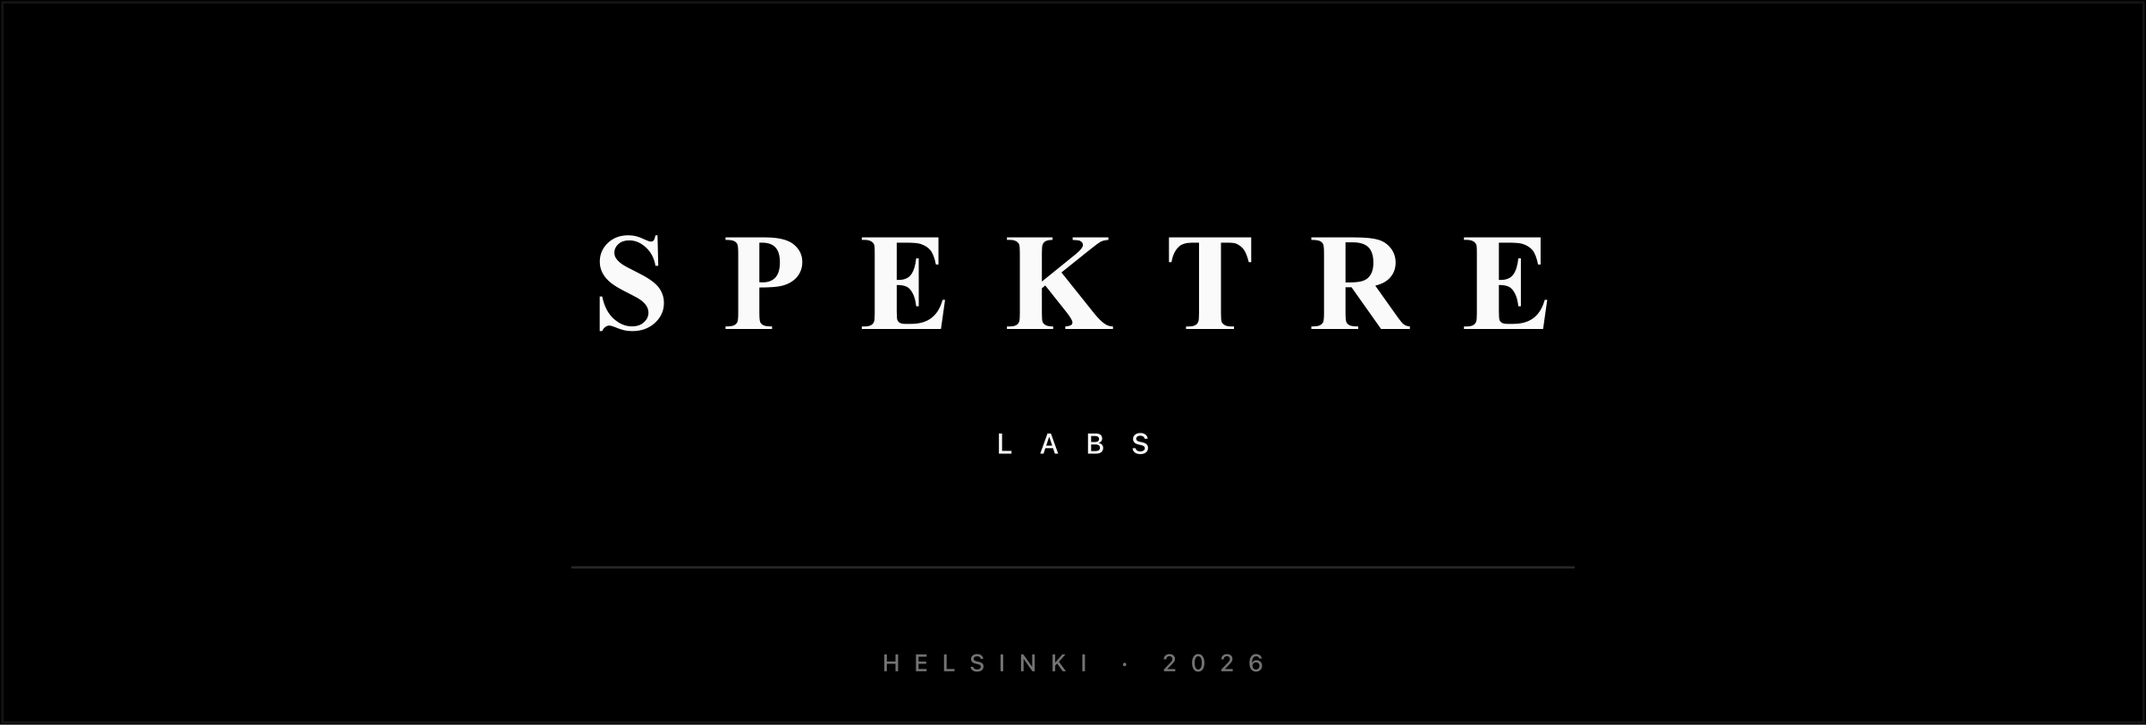
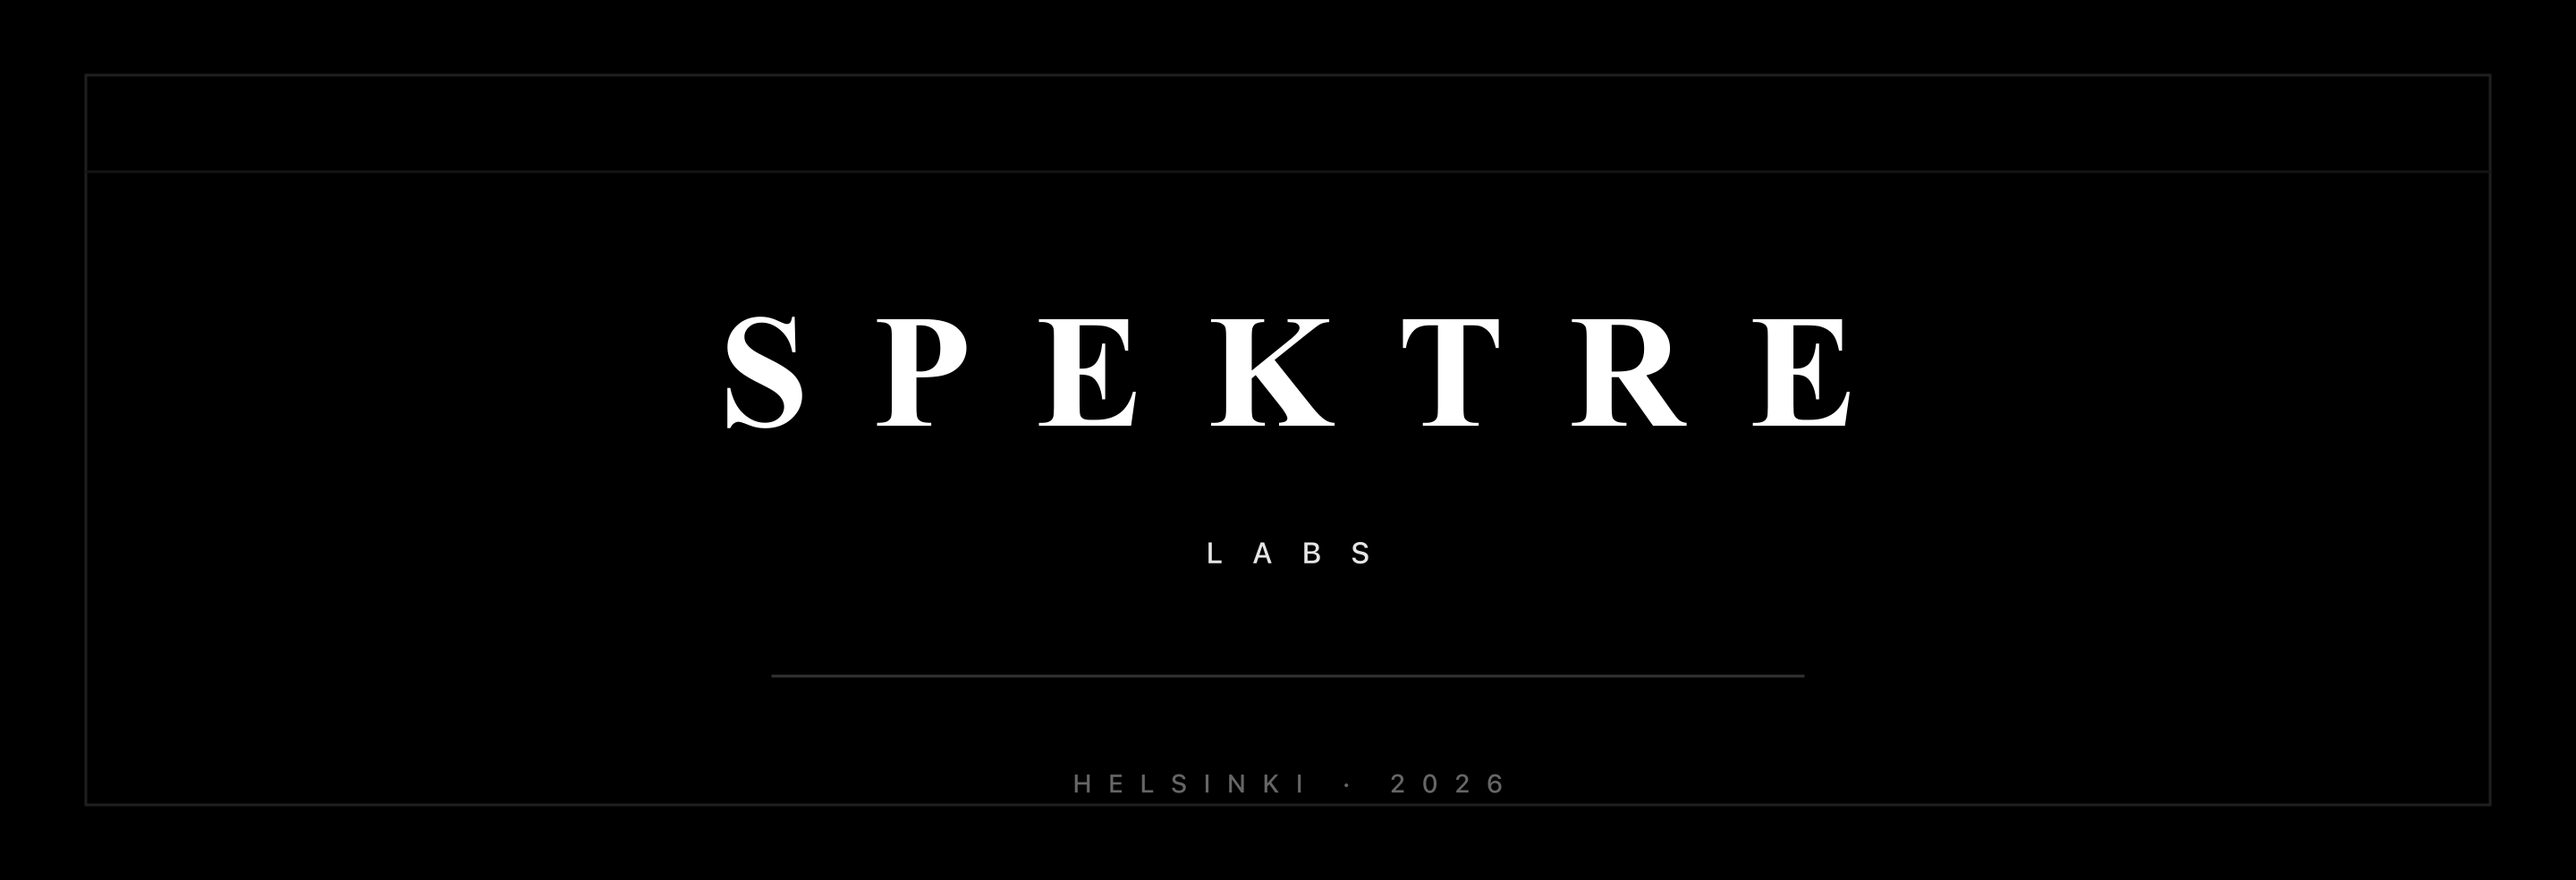
brand: luxury lockup v3 + README editorial rhythm (masthead, blockquotes, softer cards)

diff --git a/README.md b/README.md
@@ -2,17 +2,29 @@
   <a href="https://spektrelabs.org">
     <img
       src="./assets/spektre-brand-readme.png"
-      width="720"
-      alt="Spektre Labs — wordmark, Helsinki 2026"
+      width="780"
+      alt="Spektre Labs — Helsinki 2026"
       decoding="async"
       fetchpriority="high"
     />
   </a>
 </p>
 
-<br />
+<p align="center"><sub><tt>LAB · σ-AWARE RUNTIME · LOCAL-FIRST</tt></sub></p>
 
-![Creation OS](./assets/creation-os-hero.png)
+<br/>
+
+---
+
+<p align="center">
+  <img
+    src="./assets/creation-os-hero.png"
+    width="92%"
+    alt="Creation OS — σ-aware architecture overview"
+    decoding="async"
+    style="max-width:min(1100px,100%);height:auto;border-radius:10px;box-shadow:0 2px 20px rgba(15,23,42,0.07);"
+  />
+</p>
 
 # Creation OS
 
@@ -24,15 +36,14 @@
 
 ## Claim Discipline
 
-Creation OS is an AGI-oriented architecture surface, not a claim of achieved AGI.
-
-Full rules: [docs/CLAIM_DISCIPLINE.md](docs/CLAIM_DISCIPLINE.md)
+> Architecture with discipline, not hype: Creation OS is an AGI-oriented **surface**, not a claim of achieved AGI.  
+> **Evidence rules:** [docs/CLAIM_DISCIPLINE.md](docs/CLAIM_DISCIPLINE.md)
 
 ## Evidence Ladder
 
 ![Evidence Ladder](./docs/evidence_ladder.png)
 
-Creation OS does not claim everything. It measures what it can, proves what is wired, and refuses to overclaim.
+> Creation OS does not claim everything. It measures what it can, proves what is wired, and refuses to overclaim.
 
 | Level | What | Status |
 |-------|------|--------|
@@ -46,15 +57,27 @@ Creation OS does not claim everything. It measures what it can, proves what is w
 
 ---
 
+<br/>
+
 <h1 align="center">Creation OS</h1>
+
+<p align="center"><sub><tt>REPOSITORY · RUNTIME · PROOFS · BENCHMARKS</tt></sub></p>
+
+<br/>
 
 <p align="center">
   <a href="https://github.com/spektre-labs/creation-os/actions/workflows/ci.yml"><img src="https://github.com/spektre-labs/creation-os/actions/workflows/ci.yml/badge.svg" alt="CI"/></a>
+  &nbsp;
   <a href="docs/CLAIM_DISCIPLINE.md" title="Evidence classes — read before citing numbers"><img src="https://img.shields.io/badge/claims-CLAIM__DISCIPLINE-94a3b8?style=flat-square&labelColor=0f172a" alt="Claim discipline"/></a>
+  &nbsp;
   <a href="CHANGELOG.md"><img src="https://img.shields.io/badge/release-v3.2.0--HORIZON-0ea5e9?style=flat-square&labelColor=1e293b" alt="Release v3.2.0 HORIZON"/></a>
+  &nbsp;
   <a href="#proof-status"><img src="https://img.shields.io/badge/Lean-6%2F6-34d399?style=flat-square&labelColor=065f46" alt="Lean 6/6"/></a>
+  &nbsp;
   <a href="#proof-status"><img src="https://img.shields.io/badge/Frama--C-15%2F15-a5b4fc?style=flat-square&labelColor=312e81" alt="Frama-C 15/15"/></a>
 </p>
+
+<br/>
 
 <blockquote>
 <p align="center"><strong>Every AI answers. Creation OS measures first.</strong></p>
@@ -69,7 +92,7 @@ The hot path <strong>measures and gates</strong> every answer before output. Sep
 <p align="center">Everything runs <strong>locally</strong>. No cloud gate. No external evaluator. No prompt tricks for the core interrupt.</p>
 
 <p align="center">
-  <img src="docs/readme/sigma-gate-flow.png" width="92%" alt="Creation OS σ-gate flow — precheck, streaming σ, post-check, verdict" decoding="async" fetchpriority="high" style="max-width:min(1100px,100%);height:auto;border-radius:12px;box-shadow:0 4px 24px rgba(15,23,42,0.14);"/>
+  <img src="docs/readme/sigma-gate-flow.png" width="92%" alt="Creation OS σ-gate flow — precheck, streaming σ, post-check, verdict" decoding="async" fetchpriority="high" style="max-width:min(1100px,100%);height:auto;border-radius:10px;box-shadow:0 2px 20px rgba(15,23,42,0.07);"/>
 </p>
 
 <a id="what-this-is"></a>
@@ -138,7 +161,7 @@ Creation OS **does** claim a **σ-aware local runtime** with **documented positi
 σ is **not** a brand slogan — it is a **scalar estimate** built from independent signals (entropy, HIDE, ICR, LSD, spectral / SAE when wired), normalized and aggregated, then fed into a **three-way gate** (`ACCEPT` / `RETHINK` / `ABSTAIN`). Conventions differ by harness row; the C interrupt uses **Q16.16** algebra shared with the Python mirror.
 
 <p align="center">
-  <img src="docs/readme/sigma-core.png" width="94%" alt="Creation OS σ core — signals S1–S5 into unified σ" decoding="async" loading="lazy" style="max-width:min(1100px,100%);height:auto;border-radius:12px;box-shadow:0 2px 14px rgba(15,23,42,0.12);"/>
+  <img src="docs/readme/sigma-core.png" width="94%" alt="Creation OS σ core — signals S1–S5 into unified σ" decoding="async" loading="lazy" style="max-width:min(1100px,100%);height:auto;border-radius:10px;box-shadow:0 2px 20px rgba(15,23,42,0.07);"/>
 </p>
 
 **Honest scope:** σ is **not** universally validated across all tasks. It is **strongest** on factual-confidence settings with archived in-tree JSON (TruthfulQA / TriviaQA-style probes) and **still weak** on current **HaluEval v2** paired-oracle rows.
@@ -160,7 +183,7 @@ That is **near random** and **below** the &gt; 0.70 lab target.
 Cheap signals run first; the stack **stops** when the verdict is already clear so most traffic never pays for the deepest probes.
 
 <p align="center">
-  <img src="docs/readme/signal-cascade.png" width="94%" alt="Creation OS signal cascade — cheapest signal first, early exit" decoding="async" loading="lazy" style="max-width:min(1100px,100%);height:auto;border-radius:12px;box-shadow:0 2px 14px rgba(15,23,42,0.12);"/>
+  <img src="docs/readme/signal-cascade.png" width="94%" alt="Creation OS signal cascade — cheapest signal first, early exit" decoding="async" loading="lazy" style="max-width:min(1100px,100%);height:auto;border-radius:10px;box-shadow:0 2px 20px rgba(15,23,42,0.07);"/>
 </p>
 
 <a id="architecture-overview"></a>
@@ -170,7 +193,7 @@ Cheap signals run first; the stack **stops** when the verdict is already clear s
 Eight-layer map of the σ-aware system (narrative + lab — not every layer ships in one binary on every platform):
 
 <p align="center">
-  <img src="docs/readme/architecture-8-layer.png" width="96%" alt="Creation OS — eight-layer σ-aware architecture" decoding="async" loading="lazy" style="max-width:min(1200px,100%);height:auto;border-radius:12px;box-shadow:0 2px 14px rgba(15,23,42,0.12);"/>
+  <img src="docs/readme/architecture-8-layer.png" width="96%" alt="Creation OS — eight-layer σ-aware architecture" decoding="async" loading="lazy" style="max-width:min(1200px,100%);height:auto;border-radius:10px;box-shadow:0 2px 20px rgba(15,23,42,0.07);"/>
 </p>
 
 Deeper ULTRA / BSC / silicon map: [Architecture](#architecture) · [`docs/DOC_INDEX.md`](docs/DOC_INDEX.md).
@@ -182,7 +205,7 @@ Deeper ULTRA / BSC / silicon map: [Architecture](#architecture) · [`docs/DOC_IN
 Beyond a single-shot gate, the tree sketches a **closed Ω-loop**: σ at each phase (perceive → … → continue), blended into a master lane — `python/cos/omega/`, `src/sigma/omega_phase_gates.{h,c}`, `./scripts/cos omega --goal … --turns …`, and the legacy integration driver in `src/sigma/omega_loop.c`.
 
 <p align="center">
-  <img src="docs/readme/omega-loop.png" width="96%" alt="Creation OS Ω-loop — fourteen σ phases per cycle" decoding="async" loading="lazy" style="max-width:min(1200px,100%);height:auto;border-radius:12px;box-shadow:0 2px 14px rgba(15,23,42,0.12);"/>
+  <img src="docs/readme/omega-loop.png" width="96%" alt="Creation OS Ω-loop — fourteen σ phases per cycle" decoding="async" loading="lazy" style="max-width:min(1200px,100%);height:auto;border-radius:10px;box-shadow:0 2px 20px rgba(15,23,42,0.07);"/>
 </p>
 
 <a id="memory-engram"></a>
@@ -192,7 +215,7 @@ Beyond a single-shot gate, the tree sketches a **closed Ω-loop**: σ at each ph
 Only experiences that pass the gate consolidate into durable memory; recall is σ-aware (thresholds in harnesses vary).
 
 <p align="center">
-  <img src="docs/readme/engram-memory.png" width="94%" alt="Creation OS engram memory hierarchy — store only what serves truth" decoding="async" loading="lazy" style="max-width:min(1100px,100%);height:auto;border-radius:12px;box-shadow:0 2px 14px rgba(15,23,42,0.12);"/>
+  <img src="docs/readme/engram-memory.png" width="94%" alt="Creation OS engram memory hierarchy — store only what serves truth" decoding="async" loading="lazy" style="max-width:min(1100px,100%);height:auto;border-radius:10px;box-shadow:0 2px 20px rgba(15,23,42,0.07);"/>
 </p>
 
 ## Portable σ interrupt (reference)
@@ -219,7 +242,7 @@ sigma_verdict_t v = sigma_gate(&state);
 **Benchmarks:** `make check-sigma-v57` runs the σ-gate C test, pytest core, and eval drivers (streaming / router / HIDE; Gemma runs when `HF_TOKEN` or `HUGGING_FACE_HUB_TOKEN` is set). Regenerate summaries with the scripts under `benchmarks/sigma_gate_eval/` and `benchmarks/sigma_gate_scaling/`. **Hardware lab (silicon path):** `make bench-hardware` and `cos benchmark --hardware` — capture stdout under [`benchmarks/hardware/`](benchmarks/hardware/README.md) with host metadata (see [`docs/REPRO_BUNDLE_TEMPLATE.md`](docs/REPRO_BUNDLE_TEMPLATE.md)); do not treat microbench throughput as harness MMLU/ARC.
 
 <p align="center">
-  <img src="docs/assets/reddit-hook-banner.svg" width="100%" alt="Creation OS — compile on real silicon" decoding="async" loading="lazy" style="max-width:min(1200px,100%);height:auto;border-radius:14px;box-shadow:0 4px 24px rgba(15,23,42,0.18);"/>
+  <img src="docs/assets/reddit-hook-banner.svg" width="100%" alt="Creation OS — compile on real silicon" decoding="async" loading="lazy" style="max-width:min(1200px,100%);height:auto;border-radius:10px;box-shadow:0 2px 24px rgba(15,23,42,0.08);"/>
 </p>
 
 <p align="center"><sub>Forty branchless integer kernels · one composed verdict · <strong>1 = 1</strong> · <a href="#build">merge gate</a></sub></p>
@@ -284,7 +307,7 @@ sigma_verdict_t v = sigma_gate(&state);
 </tr>
 </table>
 
-<p align="center"><img src="docs/assets/readme-scan-map.svg" width="96%" alt="README scan map — inverted pyramid L1–L3 (light and dark aware)" decoding="async" loading="lazy" style="max-width:min(920px,100%);height:auto;border-radius:12px;box-shadow:0 2px 14px rgba(15,23,42,0.09);"/></p>
+<p align="center"><img src="docs/assets/readme-scan-map.svg" width="96%" alt="README scan map — inverted pyramid L1–L3 (light and dark aware)" decoding="async" loading="lazy" style="max-width:min(920px,100%);height:auto;border-radius:10px;box-shadow:0 2px 20px rgba(15,23,42,0.07);"/></p>
 <p align="center"><sub><strong>FIG 09</strong> — where to look first on this page (adapts to light/dark in supporting clients). <a href="docs/VISUAL_INDEX.md">VISUAL_INDEX</a> · <a href="docs/DOC_INDEX.md">DOC_INDEX</a>.</sub></p>
 
 ---
@@ -396,7 +419,7 @@ BitNet-b1.58 2B4T weights; neither is simulated.  Claim-class rules:
 re-run bundle for the v3.0 wired pipeline (identical numbers, one
 command each): [`benchmarks/final5/README.md`](benchmarks/final5/README.md).
 
-<p align="center"><img src="docs/assets/evidence-ladder.svg" width="92%" alt="Evidence ladder — arithmetic vs measured vs harness vs lab demo" decoding="async" loading="lazy" style="max-width:min(880px,100%);height:auto;border-radius:12px;box-shadow:0 2px 14px rgba(15,23,42,0.12);"/></p>
+<p align="center"><img src="docs/assets/evidence-ladder.svg" width="92%" alt="Evidence ladder — arithmetic vs measured vs harness vs lab demo" decoding="async" loading="lazy" style="max-width:min(880px,100%);height:auto;border-radius:10px;box-shadow:0 2px 20px rgba(15,23,42,0.07);"/></p>
 <p align="center"><sub><strong>FIG 03</strong> — which numbers may travel together (never merge microbench throughput with harness MMLU in one headline). <a href="docs/VISUAL_INDEX.md">VISUAL_INDEX</a>.</sub></p>
 
 <table role="presentation" width="100%" border="0" cellspacing="0" cellpadding="10" style="margin:0.75rem 0 1.25rem;">
@@ -680,7 +703,7 @@ Full comparison: [`docs/comparison.md`](docs/comparison.md).
 
 ## Architecture
 
-<p align="center"><img src="docs/assets/architecture-stack.svg" width="96%" alt="Creation OS architecture stack — kernel layers from world model to BSC core" decoding="async" loading="lazy" style="max-width:min(960px,100%);height:auto;border-radius:12px;box-shadow:0 4px 24px rgba(15,23,42,0.18);"/></p>
+<p align="center"><img src="docs/assets/architecture-stack.svg" width="96%" alt="Creation OS architecture stack — kernel layers from world model to BSC core" decoding="async" loading="lazy" style="max-width:min(960px,100%);height:auto;border-radius:10px;box-shadow:0 2px 24px rgba(15,23,42,0.08);"/></p>
 <p align="center"><sub><strong>FIG 08</strong> — single-file kernel narrative over Hypercube, Oracle, world model, BSC core, Soul, Proconductor. <a href="docs/VISUAL_INDEX.md">VISUAL_INDEX</a>.</sub></p>
 
 ### Full ULTRA pipeline (one turn)
@@ -795,7 +818,7 @@ Figure and palette rules: [`docs/VISUAL_INDEX.md`](docs/VISUAL_INDEX.md).
 
 ### BSC primer
 
-<p align="center"><img src="docs/assets/bsc-primitives.svg" width="92%" alt="BSC primitives — XOR bind, MAJ bundle, popcount to sigma" decoding="async" loading="lazy" style="max-width:min(900px,100%);height:auto;border-radius:12px;box-shadow:0 2px 14px rgba(15,23,42,0.09);"/></p>
+<p align="center"><img src="docs/assets/bsc-primitives.svg" width="92%" alt="BSC primitives — XOR bind, MAJ bundle, popcount to sigma" decoding="async" loading="lazy" style="max-width:min(900px,100%);height:auto;border-radius:10px;box-shadow:0 2px 20px rgba(15,23,42,0.07);"/></p>
 <p align="center"><sub><strong>FIG 06</strong> — teaching strip for bind / bundle / similarity. <a href="docs/VISUAL_INDEX.md">VISUAL_INDEX</a>.</sub></p>
 
 Binary Spatter Coding (BSC) in a nutshell:
@@ -825,7 +848,7 @@ relaxation.  Binding fidelity on the reference hot path:
 | Memory (13B)   | 48.5 GB       | 4.19 GB         |
 | Power          | 300W GPU      | 5.8W CPU        |
 
-<p align="center"><img src="docs/assets/gemm-vs-bsc-memory-ops.svg" width="94%" alt="GEMM vs BSC — memory and op-proxy ratios at README definitions" decoding="async" loading="lazy" style="max-width:min(920px,100%);height:auto;border-radius:12px;box-shadow:0 2px 14px rgba(15,23,42,0.09);"/></p>
+<p align="center"><img src="docs/assets/gemm-vs-bsc-memory-ops.svg" width="94%" alt="GEMM vs BSC — memory and op-proxy ratios at README definitions" decoding="async" loading="lazy" style="max-width:min(920px,100%);height:auto;border-radius:10px;box-shadow:0 2px 20px rgba(15,23,42,0.07);"/></p>
 <p align="center"><sub><strong>FIG 07</strong> — <strong>32×</strong> RAM and <strong>192×</strong> op-proxy at <code>D = 4096</code> (see limitations for throughput vs arithmetic). <a href="docs/VISUAL_INDEX.md">VISUAL_INDEX</a>.</sub></p>
 
 Benchmark: [`bench/gemm_vs_bsc.c`](bench/gemm_vs_bsc.c) (`make bench` →
@@ -864,7 +887,7 @@ says so.
 
 Creation OS is not just a chat interface.
 
-<p align="center"><img src="docs/assets/planes-abc.svg" width="92%" alt="Planes A–B–C — analysis map for stack positioning" decoding="async" loading="lazy" style="max-width:min(880px,100%);height:auto;border-radius:12px;box-shadow:0 2px 14px rgba(15,23,42,0.09);"/></p>
+<p align="center"><img src="docs/assets/planes-abc.svg" width="92%" alt="Planes A–B–C — analysis map for stack positioning" decoding="async" loading="lazy" style="max-width:min(880px,100%);height:auto;border-radius:10px;box-shadow:0 2px 20px rgba(15,23,42,0.07);"/></p>
 <p align="center"><sub><strong>FIG 05</strong> — Planes A–B–C (where σ-gates sit vs silicon vs product). <a href="docs/ANALYSIS.md">ANALYSIS</a> · <a href="docs/VISUAL_INDEX.md">VISUAL_INDEX</a>.</sub></p>
 
 | Command              | What it does |
@@ -1096,7 +1119,7 @@ with their own evidence-class headers; do not fold their toy outputs
 into the same tables as §7 throughput without an explicit wall — see
 `CLAIM_DISCIPLINE` §1.
 
-<p align="center"><img src="docs/assets/kernel-lineage-evidence.svg" width="96%" alt="Portable proof vs standalone lab demos (evidence classes)" decoding="async" loading="lazy" style="max-width:min(920px,100%);height:auto;border-radius:12px;box-shadow:0 2px 14px rgba(15,23,42,0.09);"/></p>
+<p align="center"><img src="docs/assets/kernel-lineage-evidence.svg" width="96%" alt="Portable proof vs standalone lab demos (evidence classes)" decoding="async" loading="lazy" style="max-width:min(920px,100%);height:auto;border-radius:10px;box-shadow:0 2px 20px rgba(15,23,42,0.07);"/></p>
 <p align="center"><sub><strong>FIG 04</strong> — portable proof vs extended lab demos (evidence-class guardrail). <a href="docs/VISUAL_INDEX.md">VISUAL_INDEX</a>.</sub></p>
 
 <p align="center"><sub><strong>· · ·</strong> scope <strong>· · ·</strong></sub></p>
